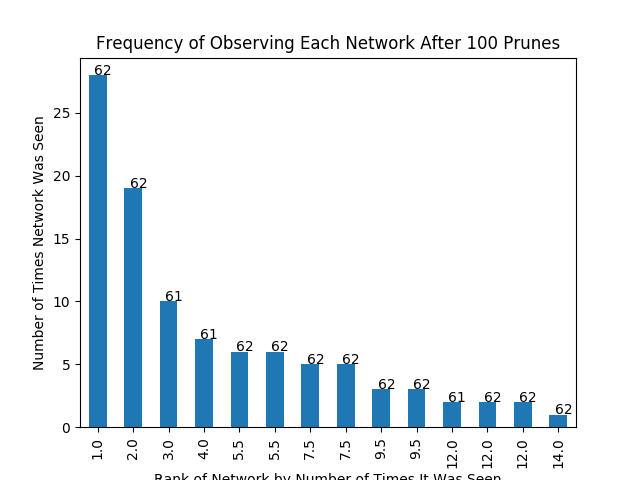
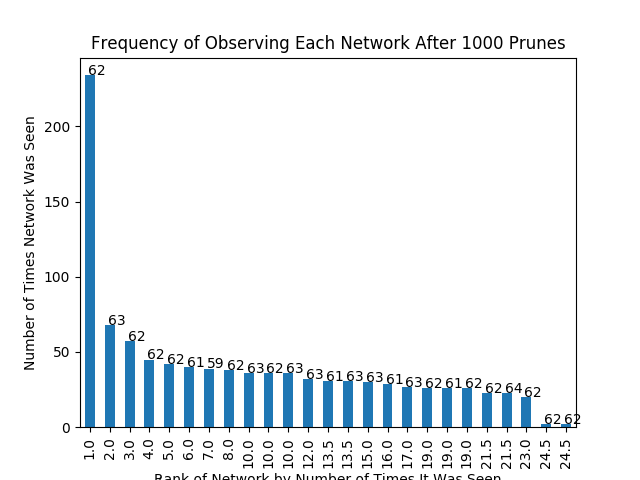
choose_inputs now checks to make sure it doesn't choose biomass precursors

Changed region(s): [[0.0312, 0.0625, 0.9062, 1.0]]

diff --git a/spammy_pruning.py b/spammy_pruning.py
@@ -32,13 +32,15 @@ cobra_model = scn.make_cobra_model(SCN.met_list, SCN.rxn_list)
 scn.reverse_rxns(cobra_model, len(cobra_model.reactions))
 scn.choose_inputs(cobra_model, int(ins))
 bm_rxn = scn.choose_bm_mets(cobra_model, int(outs))
+print(f'Biomass reaction: {bm_rxn.id}')
 cobra_model.objective = bm_rxn
 
 i = 0
+food_mets = list()
 # use a while loop and not a for loop so we can go back on occasion
 while i < int(big_reps):
     i = i + 1
-    print(f'On set {i} of food sources')
+    print(f'Food source group {i}: {[met.id for met in cobra_model.boundary]}')
     # choose some new food sources (remove existing ones)
     cobra_model.remove_reactions(cobra_model.boundary)
     scn.choose_inputs(cobra_model, int(ins))
@@ -50,7 +52,9 @@ while i < int(big_reps):
         # redo this iteration of the loop
         i = i - 1
         continue
-    # if there's at least one feasible solution, proceed with the pruning
+    # record the metabolites that worked before proceeding
+    else:
+        food_mets.append([met.id for met in cobra_model.boundary])
 
     # will hold bitstrings of all unique reactions and the count of times each
     # one came up
@@ -59,7 +63,7 @@ while i < int(big_reps):
     random_pruned_nets = list()
     for j in range(1, int(reps)):
         if j % 100 == 0:
-            print(j)
+            print(f'Pruned {j} times')
         pruned_net = scn.random_prune(cobra_model, bm_rxn)
         # in order to know whether we've seen this model before, we can't just 
         # compare models, since no two models are ever 'equal', so we'll compare
@@ -113,3 +117,7 @@ while i < int(big_reps):
     plt.savefig(
         f'{monos}_{max_pol}_{ins}ins_{outs}outs_{i}of{big_reps}reps.png'
     )
+# write the list of food sources that were tried to a file
+with open('foods.csv', 'w') as out:
+    output = '\n'.join([','.join(sublist) for sublist in food_mets])
+    out.write(output)

diff --git a/string_chem_net.py b/string_chem_net.py
@@ -231,9 +231,14 @@ def make_cobra_model(met_list, rxn_list):
 
 # choose n metabolites at random to create exchange reactions that are
 # constrained to irreversibly produce that metabolite from nothing
-def choose_inputs(model, n):
-    # add exchange reactions
-    in_mets = random.sample(model.metabolites, n)
+def choose_inputs(model, bm_rxn=cobra.Reaction(), n):
+    # make sure we don't choose any metabolites in the biomass reaction but
+    # also set an empty reaction as the default biomass reaction just in case
+    # we're setting food sources before biomass precursors
+    in_mets = random.sample(
+        [met in model.metabolites if met not in bm_rxn.metabolites],
+        n
+    )
     for met in in_mets:
         in_rxn = cobra.Reaction(
             '->' + met.id,
